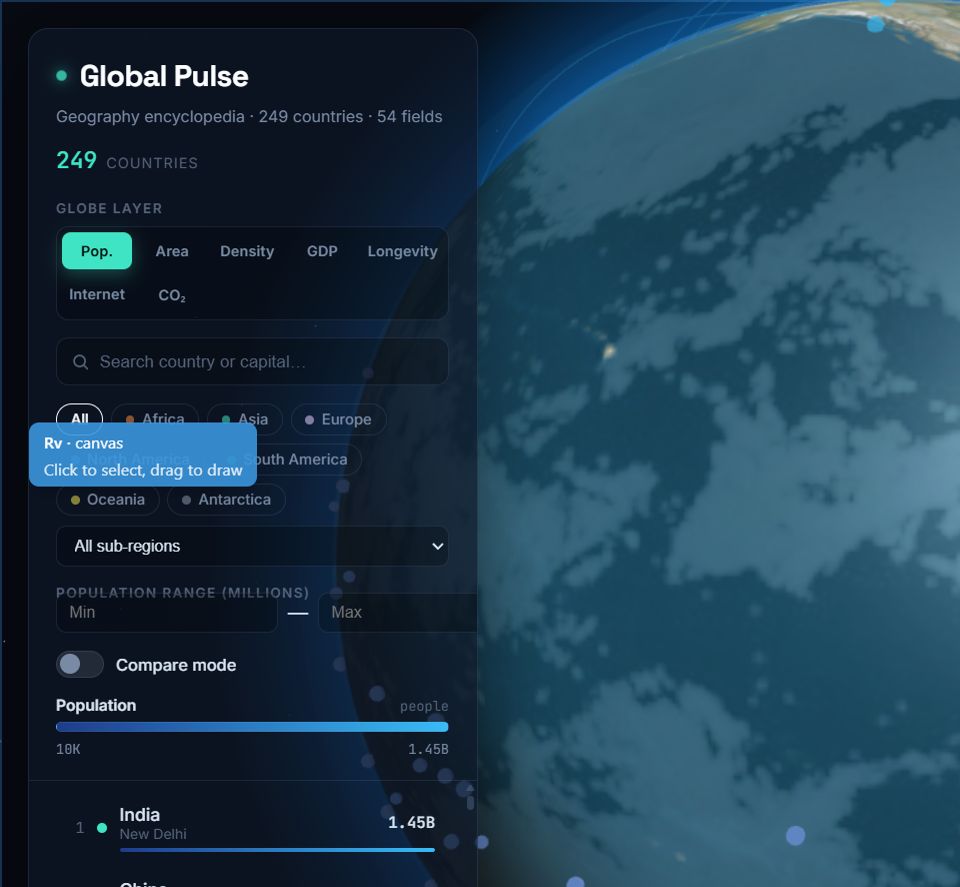
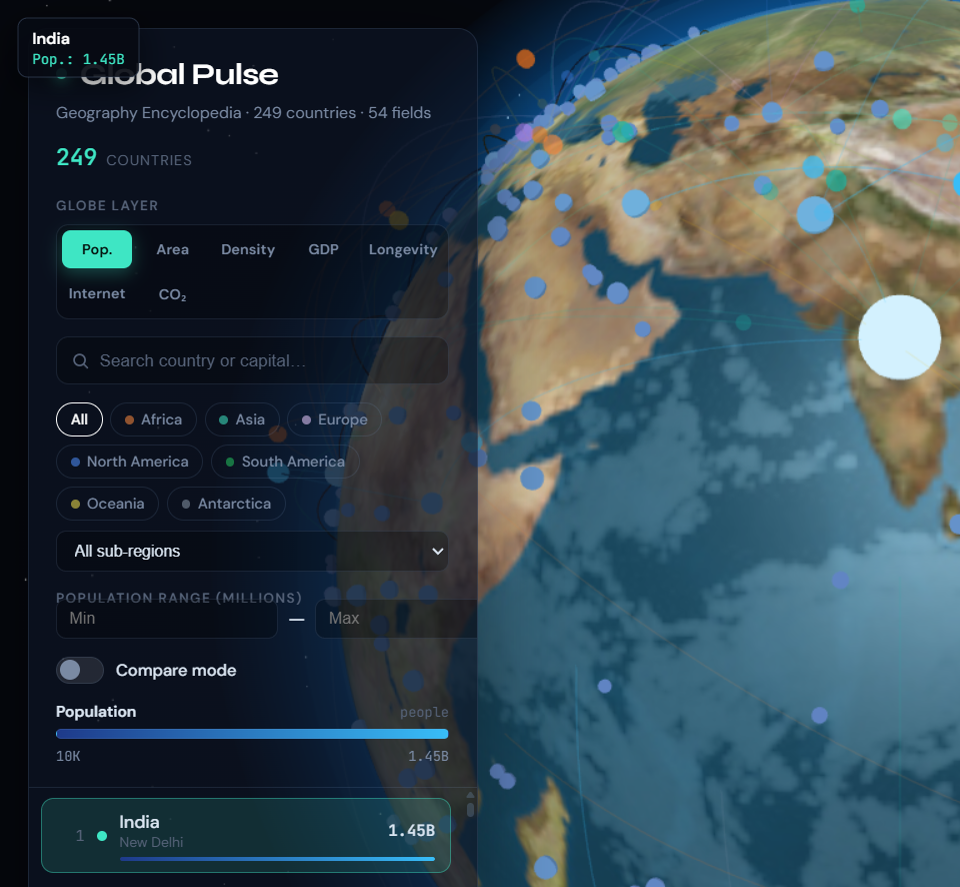
docs: update live screenshot and Vercel deploy instructions

diff --git a/README.md b/README.md
@@ -197,7 +197,23 @@ src/
 
 ## Deploy
 
-Configured for **[Vercel](https://vercel.com)** — `vercel.json` rewrites SPA routes while preserving `/api/*` serverless functions. Push to `main` auto-deploys to [global-three-one.vercel.app](https://global-three-one.vercel.app/).
+Configured for **[Vercel](https://vercel.com)** — project `global-three`, production domain `global-three-one.vercel.app`.
+
+| Setting | Value |
+|---------|-------|
+| Git repo | `Jorgeotero1998/GlobalThree` |
+| Branch | `main` |
+| Root directory | `.` |
+| Build command | `npm run build` |
+| Output directory | `dist` |
+
+Push to `main` should auto-deploy. If the live URL shows an old build after pushing, promote manually:
+
+```bash
+npx vercel link --project global-three --yes
+npx vercel deploy --prod --yes
+npx vercel alias set <deployment-url> global-three-one.vercel.app
+```
 
 ---
 